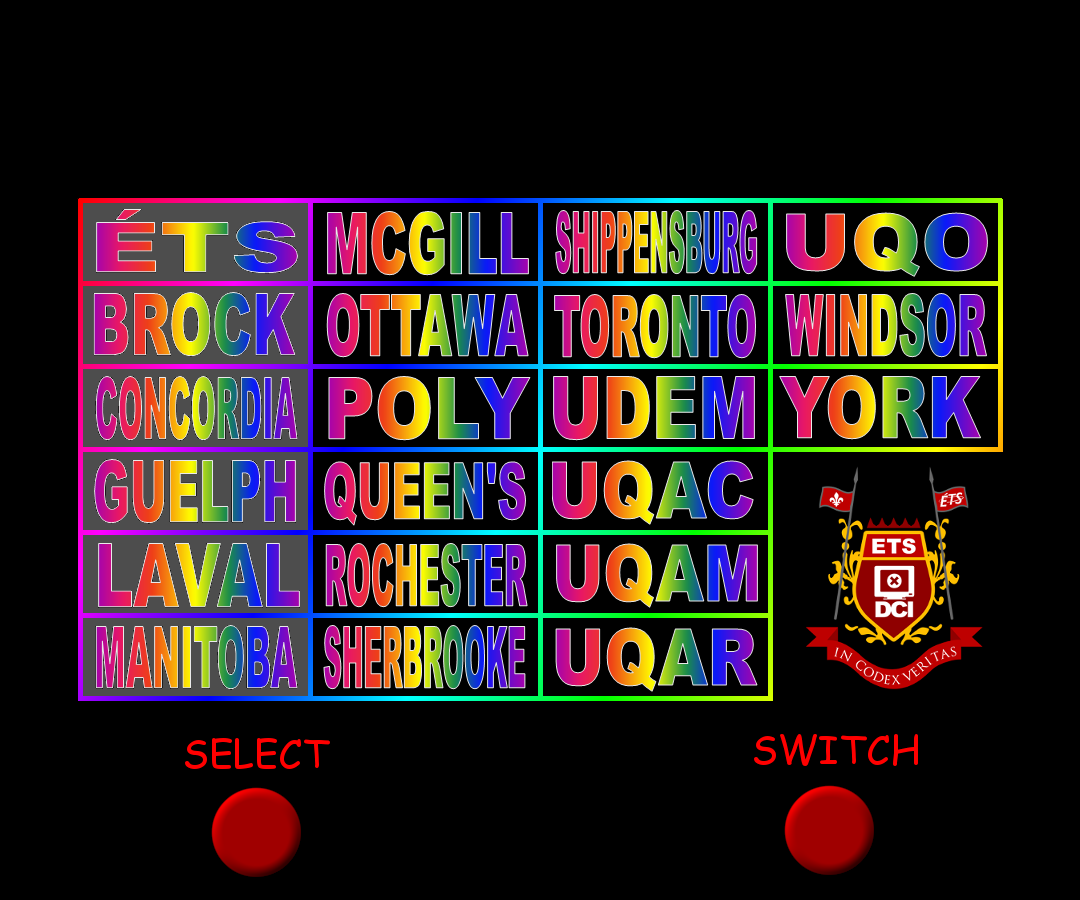
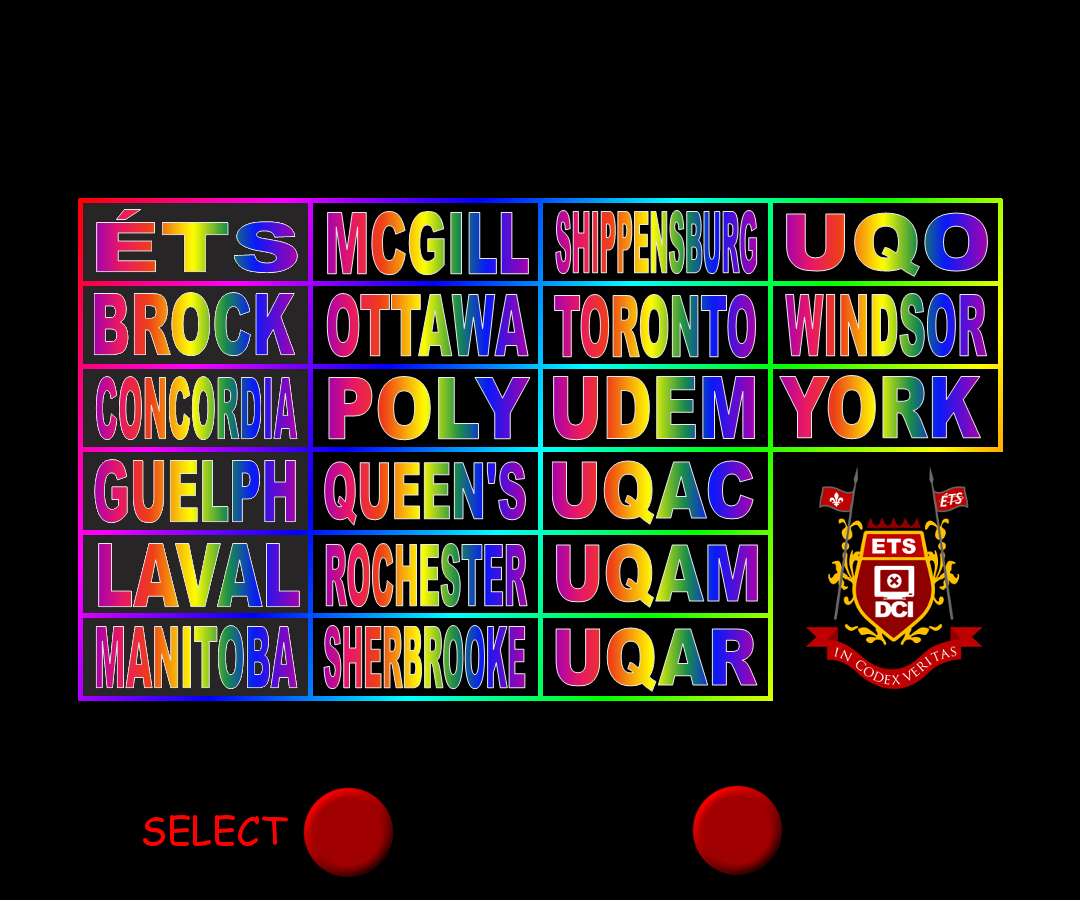
On peut rejouer sans arrêt! Woot woot

Changed region(s): [[0.0611, 0.2178, 0.3056, 0.7778], [0.1222, 0.8089, 0.3667, 0.9956], [0.6417, 0.8089, 0.8556, 0.9956]]

diff --git a/menus/main_menu.py b/menus/main_menu.py
@@ -18,12 +18,16 @@ class MainMenu(Surface):
     star_file = 'images/menus/mainmenu/star.png'
     back1_file = 'images/menus/mainmenu/back1.png'
     back2_file = 'images/menus/mainmenu/back2.png'
+    arrowh_file = 'images/menus/mainmenu/arrowh.png'
+    arrowv_file = 'images/menus/mainmenu/arrowv.png'
 
     fire_images = []
     background_images = []
     star_image = None
     back1_image = None
     back2_image = None
+    arrowh_image = None
+    arrowv_image = None
 
     column_selected = False
     column_id = 0
@@ -48,8 +52,6 @@ class MainMenu(Surface):
 
     def reset(self):
         self.column_selected = False
-        self.column_id = 0
-        self.row_id = 0
 
     def update(self, select, switch):
         if switch:
@@ -59,6 +61,7 @@ class MainMenu(Surface):
         elif self.switch:
             if not self.column_selected:
                 self.column_id = (self.column_id + 1) % len(self.schools)
+                self.row_id = 0
             else:
                 self.row_id = (self.row_id + 1) % (len(self.schools[self.column_id]) + 1)
             self.switch = False
@@ -67,6 +70,7 @@ class MainMenu(Surface):
                 self.column_selected = True
                 self.select = False
             else:
+                self.select = False
                 if self.row_id == len(self.schools[self.column_id]):
                     self.column_selected = False
                     self.select = False
@@ -97,6 +101,12 @@ class MainMenu(Surface):
             self.blit(self.select_column_text, self.select_column_text.get_rect().move(int(self.width * 0.22), int(self.height * 0.02)))
         else:
             self.blit(self.select_school_text, self.select_school_text.get_rect().move(int(self.width * 0.22), int(self.height * 0.02)))
+
+        #################################### Fleches #############################
+        if self.column_selected:
+            self.blit(self.arrowv_image, self.arrowv_image.get_rect().move(int(self.width * 0.74), int(self.height * 0.86)))
+        else:
+            self.blit(self.arrowh_image, self.arrowh_image.get_rect().move(int(self.width * 0.74), int(self.height * 0.885)))
 
         ############################### Selection colonne #########################
         if not self.column_selected:
@@ -129,6 +139,17 @@ class MainMenu(Surface):
         self._load_fire()
         self._load_star()
         self._load_back()
+        self._load_arrows()
+
+    def _load_arrows(self):
+        self.arrowh_image = pygame.image.load(self.arrowh_file).convert_alpha()
+        self.arrowv_image = pygame.image.load(self.arrowv_file).convert_alpha()
+        height1 = self.arrowh_image.get_height()
+        width1 = self.arrowh_image.get_width()
+        height2 = int(self.height * 0.07)
+        width2 = int((width1 / float(height1)) * height2)
+        self.arrowh_image = pygame.transform.smoothscale(self.arrowh_image, (width2, height2))
+        self.arrowv_image = pygame.transform.smoothscale(self.arrowv_image, (height2, width2))
 
     def _load_fire(self):
         for f in self.fire_files:
@@ -141,7 +162,7 @@ class MainMenu(Surface):
         for bf in self.background_files:
             image = pygame.image.load(bf)
             rect = image.get_rect()
-            image = pygame.transform.scale(image, (self.width, int((rect.height / float(rect.width)) * self.width)))
+            image = pygame.transform.smoothscale(image, (self.width, int((rect.height / float(rect.width)) * self.width)))
             self.background_images.append(image)
 
     def _load_star(self):
@@ -152,7 +173,7 @@ class MainMenu(Surface):
         height2 = int(self.height * 0.10)
         width2 = int((width1 / float(height1)) * height2)
 
-        self.star_image = pygame.transform.scale(self.star_image, (width2, height2))
+        self.star_image = pygame.transform.smoothscale(self.star_image, (width2, height2))
 
     def _load_back(self):
         self.back1_image = pygame.image.load(self.back1_file).convert_alpha()
@@ -162,7 +183,7 @@ class MainMenu(Surface):
         height2 = int(self.height * 0.12)
         width2 = int((width1 / float(height1)) * height2)
 
-        self.back1_image = pygame.transform.scale(self.back1_image, (width2, height2))
+        self.back1_image = pygame.transform.smoothscale(self.back1_image, (width2, height2))
 
         self.back2_image = pygame.image.load(self.back2_file).convert_alpha()
         height1 = self.back2_image.get_height()
@@ -171,4 +192,4 @@ class MainMenu(Surface):
         height2 = int(self.height * 0.12)
         width2 = int((width1 / float(height1)) * height2)
 
-        self.back2_image = pygame.transform.scale(self.back2_image, (width2, height2))
+        self.back2_image = pygame.transform.smoothscale(self.back2_image, (width2, height2))

diff --git a/menus/game_over_menu.py b/menus/game_over_menu.py
@@ -4,7 +4,10 @@
 import pygame
 import os
 from pygame.surface import Surface
+import time
+from game_state import GameState
 
+DISPLAY_TIME = 5
 
 class GameOverMenu(Surface):
     title_files = ['images/menus/gameover/title/1.png',
@@ -14,8 +17,12 @@ class GameOverMenu(Surface):
 
     baby_directory = 'images/menus/gameover/baby/'
 
+    background_file = 'images/menus/gameover/background.png'
+    background = None
+
     title_images = []
     baby_images = []
+    start_time = 0
 
     score = 0
 
@@ -25,12 +32,37 @@ class GameOverMenu(Surface):
         self.game = game
         self._load_images()
         self.font = pygame.font.SysFont("Comic Sans MS", int(0.09 * self.width))
+        self.hsfont = pygame.font.SysFont("Comic Sans MS", int(0.09 * self.width))
 
-    def update(self, select, switch):
-        pass
+    def update(self, score):
+        self.score = score
+        self.start_time = time.time()
+
+        self.blit(self.background, (0, 0))
+
+        ###################################### Score ################################
+        score = self.font.render(str(self.score), 1, (255, 255, 0))
+        rect = score.get_rect()
+        self.blit(score, rect.move(int((self.width - rect.width) / 2), int(0.18 * self.height)))
+
+        ################################# High scores ###############################
+        hs = self.game.score_manager.get_high_scores()
+
+        hs1 = self.font.render(hs[0][0] + ":  " + str(hs[0][1]), 1, (255, 255, 0))
+        rect = hs1.get_rect()
+        self.blit(hs1, rect.move(int((self.width - rect.width) / 2), int(0.495 * self.height)))
+
+        if len(hs) >= 2:
+            hs2 = self.font.render(hs[1][0] + ":  " + str(hs[1][1]), 1, (255, 255, 0))
+            rect = hs2.get_rect()
+            self.blit(hs2, rect.move(int((self.width - rect.width) / 2), int(0.635 * self.height)))
+
+            if len(hs) >= 3:
+                hs3 = self.font.render(hs[2][0] + ":  " + str(hs[2][1]), 1, (255, 255, 0))
+                rect = hs3.get_rect()
+                self.blit(hs3, rect.move(int((self.width - rect.width) / 2), int(0.78 * self.height)))
 
     def render(self):
-        self.fill((0,0,0))
         ###################################### Title ###############################
         title = self.title_images[(pygame.time.get_ticks() / 100) % len(self.title_files)]
         rect = title.get_rect()
@@ -43,22 +75,21 @@ class GameOverMenu(Surface):
         self.blit(baby, baby.get_rect().move(int(0.03 * self.width), int(0.17 * self.height)))
         self.blit(baby, baby.get_rect().move(int(0.79 * self.width), int(0.17 * self.height)))
 
-        ###################################### Score ################################
-        score = self.font.render(str(self.score), 1, (255, 255, 0))
-        rect = score.get_rect()
-        self.blit(score, rect.move(int((self.width - rect.width) / 2), int(0.18 * self.height)))
+        if time.time() > self.start_time + DISPLAY_TIME:
+            self.game.state = GameState.MainMenu
 
         return self
 
     def _load_images(self):
         self._load_title()
         self._load_baby()
+        self._load_background()
 
     def _load_title(self):
         for f in self.title_files:
             image = pygame.image.load(f)
             rect = image.get_rect()
-            image = pygame.transform.scale(image, (int(self.width * 0.85), int((rect.height / float(rect.width)) * self.width * 0.85)))
+            image = pygame.transform.smoothscale(image, (int(self.width * 0.85), int((rect.height / float(rect.width)) * self.width * 0.85)))
             self.title_images.append(image)
 
     def _load_baby(self):
@@ -75,6 +106,8 @@ class GameOverMenu(Surface):
 
         self.baby_images = [dict[c] for c in sorted(dict)]
 
-    def set_score(self, score):
-        self.score = score
+    def _load_background(self):
+        self.background = pygame.image.load(self.background_file)
+        self.background = pygame.transform.smoothscale(self.background, (self.width, self.height))
+
 

diff --git a/menus/scoreboard.py b/menus/scoreboard.py
@@ -38,6 +38,10 @@ class ScoreBoard(Surface):
     def update(self, time_passed):
         pass
 
+    def reset(self):
+        self.lives = MAX_LIVES
+        self._init_board()
+
     def _init_board(self):
         self.fill((0, 0, 0))
         i = 0.015
@@ -105,13 +109,13 @@ class ScoreBoard(Surface):
     def _load_title_image(self):
         self.score_image = pygame.image.load(self.score_file)
         rect = self.score_image.get_rect()
-        self.score_image = pygame.transform.scale(self.score_image,
+        self.score_image = pygame.transform.smoothscale(self.score_image,
                                                   (self.width, int((rect.height / float(rect.width)) * self.width)))
 
     def _load_line_image(self):
         self.line_image = pygame.image.load(self.line_file)
         rect = self.line_image.get_rect()
-        self.line_image = pygame.transform.scale(self.line_image,
+        self.line_image = pygame.transform.smoothscale(self.line_image,
                                                   (self.width, int((rect.height / float(rect.width)) * self.width)))
 
     def _load_number_images(self):
@@ -123,7 +127,7 @@ class ScoreBoard(Surface):
             width2 = int(self.width * NUMBER_RATIO)
             height2 = int((height1 / float(width1)) * width2)
 
-            self.number_images[i] = pygame.transform.scale(self.number_images[i], (width2, height2))
+            self.number_images[i] = pygame.transform.smoothscale(self.number_images[i], (width2, height2))
 
     def remove_life(self):
         self.lives -= 1
@@ -141,8 +145,8 @@ class ScoreBoard(Surface):
         width2 = int((self.width / MAX_LIVES) * 0.7)
         height2 = int((height1 / float(width1)) * width2)
 
-        self.life_image = pygame.transform.scale(self.life_image, (width2, height2))
-        self.no_life_image = pygame.transform.scale(self.no_life_image, (width2, height2))
+        self.life_image = pygame.transform.smoothscale(self.life_image, (width2, height2))
+        self.no_life_image = pygame.transform.smoothscale(self.no_life_image, (width2, height2))
 
     def _load_help_image(self):
         self.help_image = pygame.image.load(self.help_file)
@@ -152,5 +156,5 @@ class ScoreBoard(Surface):
         width2 = int(self.width)
         height2 = int((height1 / float(width1)) * width2)
 
-        self.help_image = pygame.transform.scale(self.help_image, (width2, height2))
+        self.help_image = pygame.transform.smoothscale(self.help_image, (width2, height2))
 

diff --git a/game.py b/game.py
@@ -127,13 +127,16 @@ class Game:
     def start_game(self, school):
         self.set_state(GameState.Running)
         self.gameboard.reset()
+        self.scoreboard.reset()
         self.school_id = self.score_manager.get_school_id(school)
+        self.gameboard.reset()
 
     def stop_game(self):
         self.set_state(GameState.GameOver)
-        self.gameovermenu.set_score(self.score_manager.get_score())
-        self.controls_reversed = False
+        score = self.score_manager.get_score()
         self.score_manager.save_game(self.school_id)
+        self.gameovermenu.update(score)
+        self.controls_reversed = False
 
     def set_state(self, state):
         self.state = state
@@ -147,11 +150,11 @@ class Game:
 if __name__ == "__main__":
     pump = Pump(PUMP_PORT)
     with pump:
-        try:
+        if True:#try:
             pump.start()
             game = Game(pump)
             game.start()
-        except Exception as e:
-            print e
+        #except Exception as e:
+        #    print e
 
 

diff --git a/gameboard.py b/gameboard.py
@@ -86,10 +86,10 @@ class GameBoard(Surface):
     def _draw_background(self):
         if not self.background:
             self.background = pygame.image.load(self.background_file)
-            self.background = pygame.transform.scale(self.background, (self.width, self.height))
+            self.background = pygame.transform.smoothscale(self.background, (self.width, self.height))
 
             self.background_doge = pygame.image.load(self.background_doge_file)
-            self.background_doge = pygame.transform.scale(self.background_doge, (self.width, self.height))
+            self.background_doge = pygame.transform.smoothscale(self.background_doge, (self.width, self.height))
 
         if len([e for e in self.effects if type(e) == DogeText]) == 0:
             self.blit(self.background, (0, 0))
@@ -108,4 +108,5 @@ class GameBoard(Surface):
 
     def reset(self):
         self.player.reset()
+        self.obstacle_manager.reset()
 

diff --git a/obstacles/obstacle_manager.py b/obstacles/obstacle_manager.py
@@ -20,6 +20,7 @@ class ObstacleManager:
                       }
     obstacles = []
     counter = 0
+    default_speed = 0
 
     def __init__(self, gameboard, speed, max_obstacles, collision_strategy_factory, player):
         self.max_obstacles = max_obstacles
@@ -27,6 +28,7 @@ class ObstacleManager:
         self.width = gameboard.width
         self.height = gameboard.height
         self.speed = speed
+        self.default_speed = speed
         self.obstacle_group = Group()
         self.collision_strategy_factory = collision_strategy_factory
         self.player = player
@@ -78,3 +80,11 @@ class ObstacleManager:
 
     def accelerate_obstacles(self, speed):
         self.speed += speed
+
+    def reset(self):
+        self.speed = self.default_speed
+        for obstacle in self.obstacles:
+            obstacle.kill()
+            self.obstacle_group.remove(obstacle)
+        self.obstacles = []
+

diff --git a/scoremanager.py b/scoremanager.py
@@ -52,7 +52,7 @@ class ScoreManager:
             for score in scores:
                 allgames.append((school, score))
         allgames = sorted(allgames, key=lambda tup: tup[1], reverse=True)
-        return [(self.schools[school], score) for school, score in allgames[:3]]
+        return [(self.get_schools()[school], score) for school, score in allgames][:3]
 
     def get_average_score(self):
         scores = [(self.get_schools()[s], int(sum(g)/(len(g)+0.000001))) for s, g in self.games.items()]

diff --git a/menus/top_menu.py b/menus/top_menu.py
@@ -54,5 +54,5 @@ class TopMenu(Surface):
     def _load_title(self):
         self.title_image = pygame.image.load(self.title_file)
         rect = self.title_image.get_rect()
-        self.title_image = pygame.transform.scale(self.title_image,
+        self.title_image = pygame.transform.smoothscale(self.title_image,
                                                   (self.width, int((rect.height / float(rect.width)) * self.width)))

diff --git a/obstacles/healthpack.py b/obstacles/healthpack.py
@@ -41,5 +41,5 @@ class HealthPack(Obstacle):
             height2 = int(gameboard.height * HealthPack.RATIO)
             width2 = int((width1 / float(height1)) * height2)
 
-            HealthPack.image = pygame.transform.scale(HealthPack.image, (width2, height2))
+            HealthPack.image = pygame.transform.smoothscale(HealthPack.image, (width2, height2))
         return HealthPack.image

diff --git a/obstacles/vodka.py b/obstacles/vodka.py
@@ -27,5 +27,5 @@ class Vodka(Obstacle):
             height2 = int(gameboard.height * Vodka.RATIO)
             width2 = int((width1 / float(height1)) * height2)
 
-            Vodka.image = pygame.transform.scale(Vodka.image, (width2, height2))
+            Vodka.image = pygame.transform.smoothscale(Vodka.image, (width2, height2))
         return Vodka.image

diff --git a/obstacles/beer.py b/obstacles/beer.py
@@ -26,5 +26,5 @@ class Beer(Obstacle):
             height2 = int(gameboard.height * Beer.RATIO)
             width2 = int((width1 / float(height1)) * height2)
 
-            Beer.image = pygame.transform.scale(Beer.image, (width2, height2))
+            Beer.image = pygame.transform.smoothscale(Beer.image, (width2, height2))
         return Beer.image

diff --git a/obstacles/nyan.py b/obstacles/nyan.py
@@ -45,5 +45,5 @@ class Nyan(Obstacle):
             height2 = int(gameboard.height * Nyan.RATIO)
             width2 = int((width1 / float(height1)) * height2)
 
-            Nyan.image = pygame.transform.scale(Nyan.image, (width2, height2))
+            Nyan.image = pygame.transform.smoothscale(Nyan.image, (width2, height2))
         return Nyan.image
